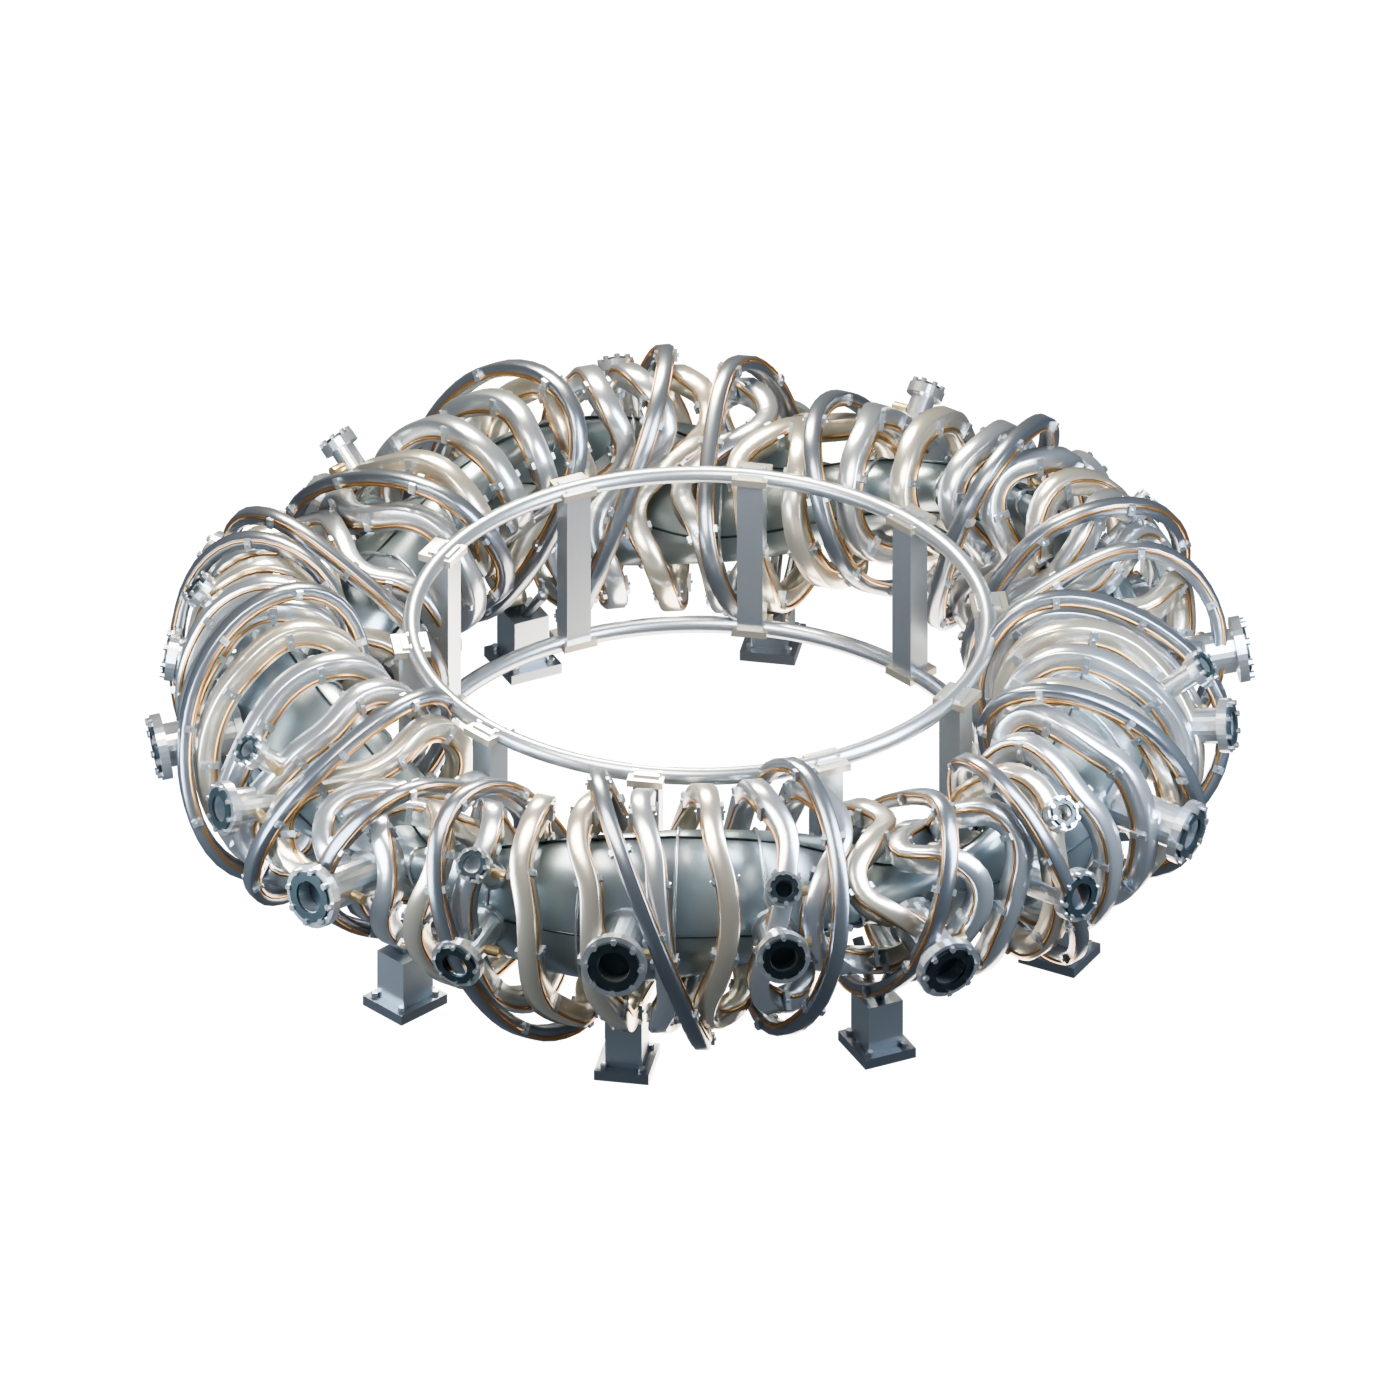
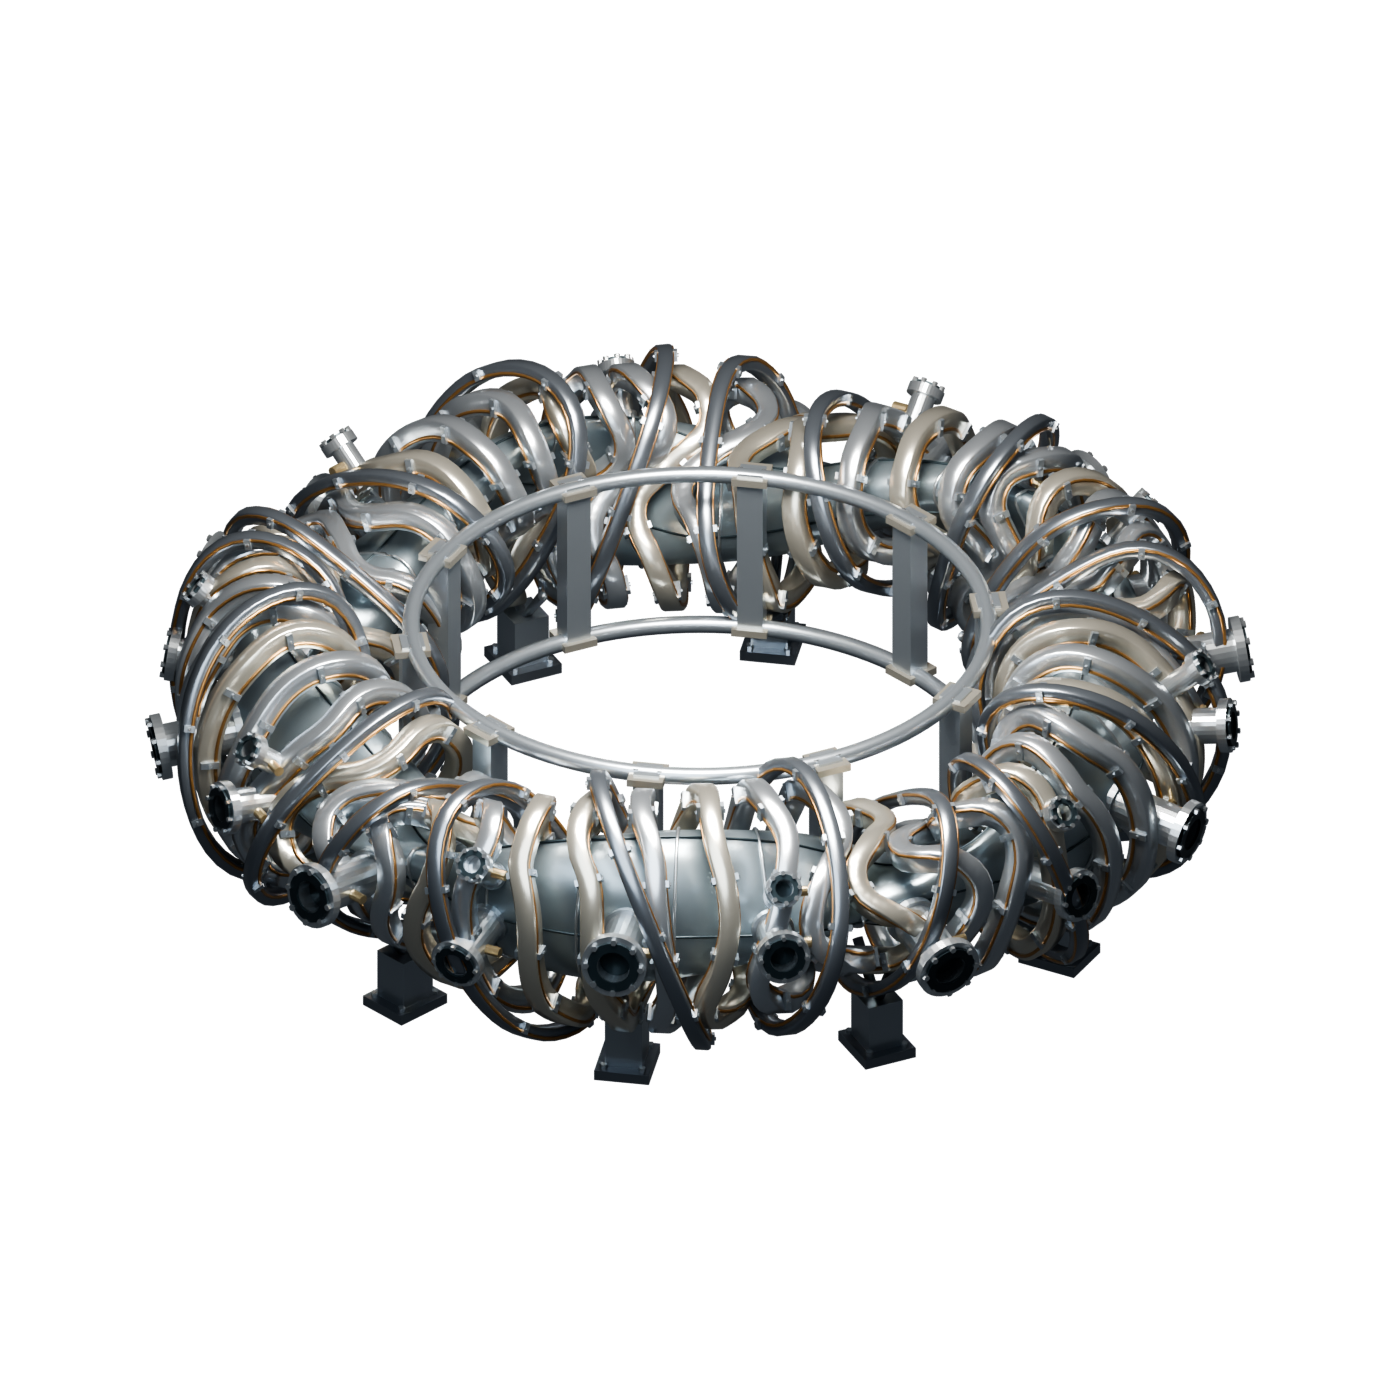
Light stellarator from above with directional reflections and shadows

Changed region(s): [[0.0921, 0.2457, 0.8907, 0.7986]]

diff --git a/lib/stellarator-scene.ts b/lib/stellarator-scene.ts
@@ -1,6 +1,5 @@
 import * as T from 'three';
 import { GLTFLoader } from 'three/addons/loaders/GLTFLoader.js';
-import { RoomEnvironment } from 'three/addons/environments/RoomEnvironment.js';
 import { toScenePoint, type XYZ } from './stellarator-math';
 
 export type StellaratorMode = 'form' | 'magnetic' | 'particle';
@@ -24,6 +23,23 @@ function releaseObject(root: T.Object3D) {
     }
   });
   geometries.forEach(g => g.dispose()); materials.forEach(m => m.dispose());
+}
+
+function createOverheadEnvironment(renderer:T.WebGLRenderer) {
+  const studio=new T.Scene();
+  studio.background=new T.Color(.045,.055,.075);
+  // Metals reflect the light rig: keep the broad bright source above the machine.
+  const softbox=new T.Mesh(new T.PlaneGeometry(8,6),new T.MeshBasicMaterial({
+    color:new T.Color(12,11.5,10.5),toneMapped:false,
+  }));
+  softbox.position.set(1.2,9,2);softbox.lookAt(0,0,0);studio.add(softbox);
+  const fill=new T.Mesh(new T.PlaneGeometry(5,3),new T.MeshBasicMaterial({
+    color:new T.Color(.45,.5,.6),toneMapped:false,
+  }));
+  fill.position.set(0,4,10);fill.lookAt(0,0,0);studio.add(fill);
+  const generator=new T.PMREMGenerator(renderer);
+  try {return generator.fromScene(studio,.015);}
+  finally {releaseObject(studio);generator.dispose();}
 }
 
 const plasmaVertex = `
@@ -106,17 +122,17 @@ export async function createStellaratorScene(
   renderer.setPixelRatio(Math.min(window.devicePixelRatio,1.6));
   renderer.setClearColor(0x111310,0);
   renderer.toneMapping=T.ACESFilmicToneMapping;
-  renderer.toneMappingExposure=1.45;
+  renderer.toneMappingExposure=1.12;
+  renderer.shadowMap.type=T.PCFSoftShadowMap;
   renderer.domElement.setAttribute('aria-hidden','true'); host.appendChild(renderer.domElement);
   const scene = new T.Scene();
   const camera = new T.PerspectiveCamera(35,1,.1,100);
   camera.position.set(6.4,6.0,9.2); camera.lookAt(0,0,0);
-  const room = new RoomEnvironment(); const pmrem=new T.PMREMGenerator(renderer);
-  let environment=pmrem.fromScene(room,.045); scene.environment=environment.texture;
-  room.dispose(); pmrem.dispose();
-  const key=new T.DirectionalLight(0xe7f3ff,3.5); key.position.set(3,8,5); scene.add(key);
-  const rim=new T.DirectionalLight(0x8fbfff,2); rim.position.set(-5,2,-4); scene.add(rim);
-  const warm=new T.DirectionalLight(0xffd5a5,1.5); warm.position.set(4,-1,-3); scene.add(warm);
+  let environment=createOverheadEnvironment(renderer);scene.environment=environment.texture;
+  const key=new T.DirectionalLight(0xfff3e5,4.5);key.position.set(1.2,9,2);scene.add(key);
+  key.shadow.mapSize.set(2048,2048);
+  Object.assign(key.shadow.camera,{left:-3.8,right:3.8,top:3.8,bottom:-3.8,near:.5,far:18});
+  key.shadow.camera.updateProjectionMatrix();key.shadow.bias=-.0002;key.shadow.normalBias=.006;
   const machine = new T.Group(); scene.add(machine);
   machine.add(gltf.scene);
   const bounds=new T.Box3().setFromObject(gltf.scene);
@@ -137,7 +153,8 @@ export async function createStellaratorScene(
     const materials=Array.isArray(object.material)?object.material:[object.material];
     materials.forEach(material=>{
       if (!(material instanceof T.MeshStandardMaterial)) return;
-      material.envMapIntensity=1.25;
+      material.envMapIntensity=.8;
+      object.receiveShadow=true;
       const category=object.name.startsWith('coil_')?'coil':object.name.startsWith('vessel_')?'vessel':'support';
       hardware.push({mesh:object,material,opacity:material.opacity,category});
     });
@@ -208,6 +225,7 @@ export async function createStellaratorScene(
   let opacityTarget=0,opacityCurrent=0;
   function applyMode(next:StellaratorMode){
     mode=next;dirty=true;
+    key.castShadow=mode==='form';renderer.shadowMap.enabled=mode==='form';
     fieldGroup.visible=mode==='magnetic';particles.visible=mode==='particle';
     if(plasma)plasma.visible=mode!=='form';
     plasmaMaterial.uniforms.uMode.value=mode==='particle'?1:0;
@@ -215,6 +233,7 @@ export async function createStellaratorScene(
     hardware.forEach(({mesh,material,opacity,category})=>{
       // Keep only a ghost of the coil system in the explanatory views.
       mesh.visible=mode==='form'||category==='coil';
+      mesh.castShadow=mode==='form';
       material.transparent=mode!=='form'||opacity<1;
       material.opacity=mode==='form'?opacity:mode==='magnetic'?.13:.07;
       material.depthWrite=mode==='form';material.needsUpdate=true;
@@ -240,10 +259,8 @@ export async function createStellaratorScene(
   function contextLost(event:Event){event.preventDefault();contextAvailable=false;options.onContext(false);}
   function contextRestored(){
     try {
-      const replacementRoom=new RoomEnvironment();
-      const generator=new T.PMREMGenerator(renderer);
-      const replacement=generator.fromScene(replacementRoom,.045);
-      replacementRoom.dispose();generator.dispose();environment.dispose();
+      const replacement=createOverheadEnvironment(renderer);
+      environment.dispose();
       environment=replacement;scene.environment=environment.texture;
       contextAvailable=true;dirty=true;options.onContext(true);schedule();
     } catch {contextAvailable=false;options.onContext(false);}
@@ -286,7 +303,7 @@ export async function createStellaratorScene(
       if(disposed)return;disposed=true;cancelAnimationFrame(frame);resizeObserver.disconnect();intersectionObserver.disconnect();
       host.removeEventListener('pointerdown',pointerDown);host.removeEventListener('pointermove',pointerMove);host.removeEventListener('pointerup',pointerUp);host.removeEventListener('pointercancel',pointerUp);host.removeEventListener('keydown',keyDown);
       document.removeEventListener('visibilitychange',visibilityChange);renderer.domElement.removeEventListener('webglcontextlost',contextLost);renderer.domElement.removeEventListener('webglcontextrestored',contextRestored);
-      releaseObject(scene);plasmaMaterial.dispose();environment.dispose();pathTexture.dispose();renderer.dispose();renderer.domElement.remove();
+      releaseObject(scene);key.shadow.dispose();plasmaMaterial.dispose();environment.dispose();pathTexture.dispose();renderer.dispose();renderer.domElement.remove();
     },
   };
 }
